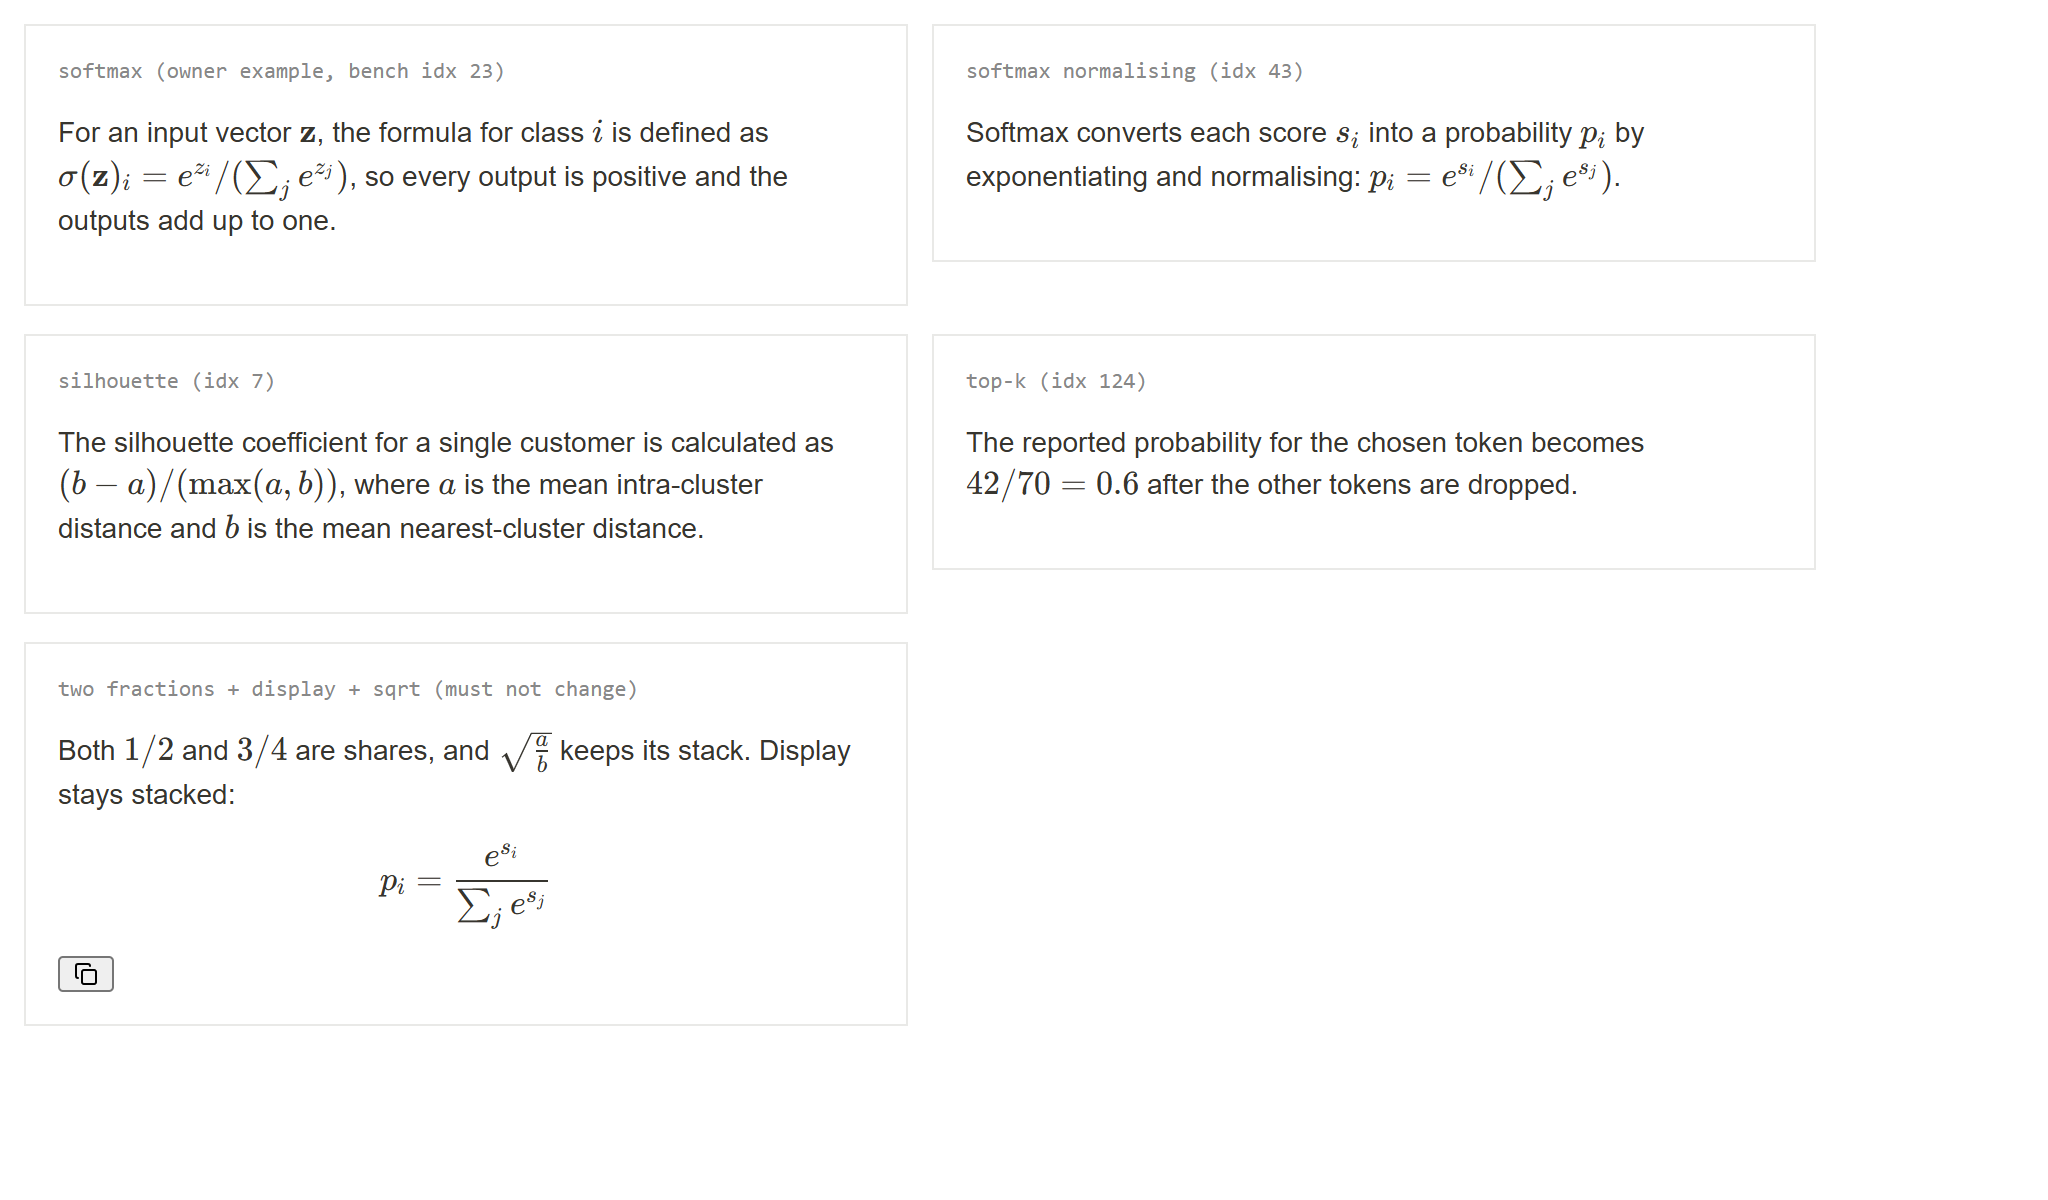
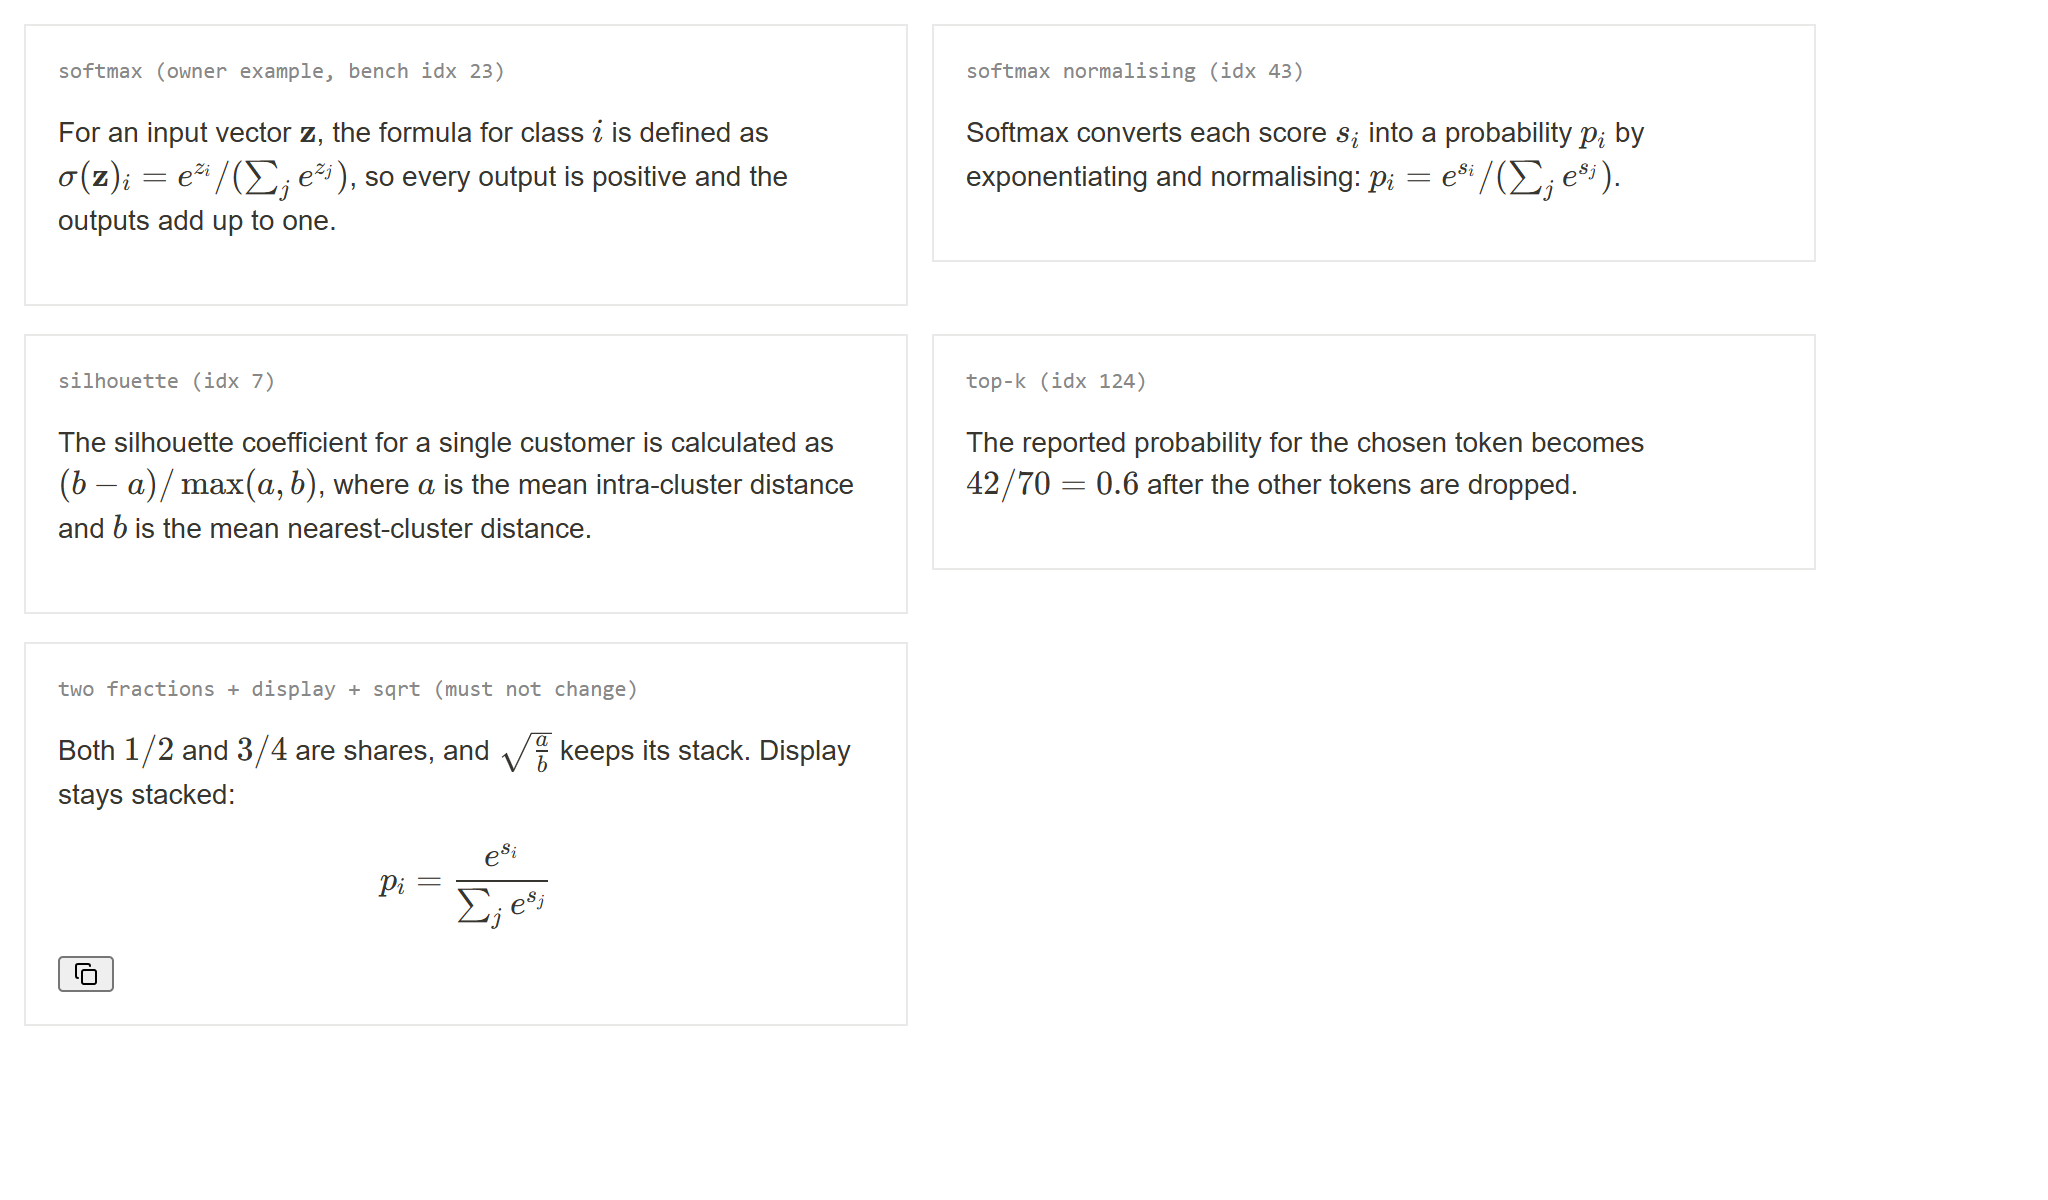
FRAC-1 polish: single function-call argument needs no extra brackets (9fe11e26f); after.png

Changed region(s): [[0.0312, 0.37, 0.4062, 0.4625]]

diff --git a/docs/features/explain/checks/frac-1/FRAC-1-REPORT.md b/docs/features/explain/checks/frac-1/FRAC-1-REPORT.md
@@ -13,3 +13,5 @@ EVIDENCE (real Md in explain mode, headless Chrome, 408 px text column, 14 px Ar
 TESTS: touched module and renderer files 36 pass, 0 fail; full web unit run `node --test "src/**/*.test.mjs"`: 7420 tests, 7392 pass, 0 fail, 27 skipped, 1 todo.
 
 NOT CHECKED: no Vite production build or browser run against the real Inter font and card CSS (Arial approximation); a long inline fraction is wider in a/b form (the sum of the two arguments, not the max) and KaTeX inline math does not wrap, so a very long one can overflow the 408 px column (none of the sampled cards did; the temperature formula, idx 46, was not rendered). Ships as its own small release or with LBL-1 (the Reviewer's order).
+
+POLISH (Reviewer, optional): feat/frac-1 tip 9fe11e26fe06a4fed5919eb02f64fab7d1fa3413 (on 313b7034a): a single \command(...) argument (one function call, no brackets inside) counts as one symbol and gets no extra brackets: the silhouette sentence now prints (b - a)/\max(a, b); compound arguments keep their brackets ((\max(a,b) + 1)/2). Touched tests 36 pass; full web unit run 7420 tests, 7392 pass, 0 fail, 27 skipped. after.png re-rendered.
